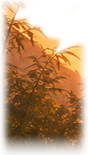
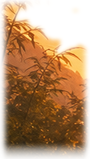
Sit cover trees in the enter frame and cut the roofs to form.
The last sit put trees on the map rim, so the camera on 暖 saw an empty field. Three large cover willows now sit behind 暖, left of the lodge, and on the creek. cut_house eats the cover floor so the roofs are not boxes.

diff --git a/godot/project.test.ts b/godot/project.test.ts
@@ -138,6 +138,10 @@ test("Valley look is one dusk illustration, not DST stickers", () => {
   assert.match(valley, /prop-cover-tree/);
   assert.match(valley, /prop-cover-lamp/);
   assert.match(valley, /prop-cover-shore/);
+  assert.match(valley, /6\.35, 5\.15, 176, 236/);
+  assert.match(valley, /12\.15, 3\.55, 196, 252/);
+  assert.match(valley, /10\.55, 7\.20, 168, 228/);
+  assert.match(valley, /8\.15, 7\.35, 52, 68/);
   assert.doesNotMatch(valley, /prop-mine\.png/);
   assert.doesNotMatch(valley, /prop-stall\.png/);
   assert.doesNotMatch(valley, /prop-anvil\.png/);
@@ -165,6 +169,7 @@ test("Valley look is one dusk illustration, not DST stickers", () => {
   assert.match(unify, /918, 298, 972, 372/);
   assert.match(unify, /1008, 548, 1148, 668/);
   assert.match(unify, /fade_bank/);
+  assert.match(unify, /cut_house/);
   assert.doesNotMatch(unify, /Wilson|Don't Starve|Dont Starve/i);
   assert.ok(existsSync("godot/assets/art/prop-cover-tree.png"));
   assert.ok(existsSync("godot/assets/art/prop-cover-tree-b.png"));

diff --git a/tools/unify_dusk.py b/tools/unify_dusk.py
@@ -137,14 +137,35 @@ def trim_alpha(im: Image.Image, t: int = 10) -> Image.Image:
     return im.crop((int(xs.min()), int(ys.min()), int(xs.max()) + 1, int(ys.max()) + 1))
 
 
+def cut_house(im: Image.Image, tol: float = 38.0, sit: float = 0.36) -> Image.Image:
+    # Cut to the roof. Eat the cover floor so the play sheet is not a box.
+    look = _look()
+    cut = eat_corners(im.convert("RGBA"), tol)
+    buf = np.asarray(cut, dtype=np.float32)
+    h, _w = buf.shape[:2]
+    rgb = buf[:, :, :3]
+    a = buf[:, :, 3]
+    lum = rgb @ np.array([0.30, 0.50, 0.20], dtype=np.float32)
+    r = rgb[:, :, 0]
+    g = rgb[:, :, 1]
+    glow = (r > 150.0) & (r > g + 16.0) & (lum > 88.0)
+    yy = np.arange(h, dtype=np.float32)[:, None]
+    floor = (yy > h * 0.58) & (a > 6.0) & (~glow) & (lum < 100.0)
+    t = np.clip((h - yy) / max(12.0, h * 0.42), 0.0, 1.0)
+    buf[:, :, 3] = np.where(floor, a * (t * t), a)
+    cut = Image.fromarray(np.clip(buf, 0, 255).astype(np.uint8), "RGBA")
+    cut = look.soften_sit(cut, sit)
+    cut = fade_edges(cut, 0.08)
+    return trim_alpha(cut)
+
+
 def sit_cover_houses() -> None:
     # Read the cover. Does not touch the cover.
     cover = Image.open(ART / "cover-valley.png").convert("RGBA")
-    look = _look()
-    hut = look.soften_sit(eat_corners(cover.crop(HUT_BOX)), 0.28)
+    hut = cut_house(cover.crop(HUT_BOX), 36.0, 0.36)
     hut.save(ART / "prop-hut.png")
     print("wrote prop-hut.png from cover hut", hut.size)
-    lodge = look.soften_sit(eat_corners(cover.crop(LODGE_BOX)), 0.26)
+    lodge = cut_house(cover.crop(LODGE_BOX), 38.0, 0.38)
     lodge.save(ART / "prop-lodge.png")
     print("wrote prop-lodge.png from cover lodge", lodge.size)
     raw = (ART / "prop-lodge.png").read_bytes()
@@ -156,7 +177,7 @@ def sit_cover_grove() -> None:
     # Trees, lamp, shore from the same cover. Does not touch the cover.
     cover = Image.open(ART / "cover-valley.png").convert("RGBA")
     look = _look()
-    willow = trim_alpha(look.soften_sit(fade_edges(eat_sky(cover.crop(WILLOW_BOX), 16.0), 0.12), 0.16))
+    willow = trim_alpha(look.soften_sit(fade_edges(eat_sky(cover.crop(WILLOW_BOX), 16.0), 0.08), 0.12))
     willow.save(ART / "prop-cover-tree.png")
     print("wrote prop-cover-tree.png from cover willow", willow.size)
     # Ridge canopy is gold-lit. Do not flood-eat the sky or the crown goes with it.

diff --git a/godot/docs/ART.md b/godot/docs/ART.md
@@ -9,7 +9,7 @@
 - **主光：** 西 / 左。太阳在封面左脊。高光在物的左侧，脚影偏东 / 右。`Look.SHADOW_EAST`。不要顶光、不要第二轮太阳。
 - **描边：** 无硬墨线。软边插画。形靠色和光，不靠黑圈。禁止饥荒笔触、禁止像素描边。
 - **脚影：** 同一套软椭圆接地影，偏东。人、屋同一规则。不要每件道具自带另一种影子。
-- **禁止混包：** 人和屋和地来自封面同一支笔、同一套比例。玩区屋只用 `prop-hut` / `prop-lodge`（封面那两座，经 `unify_dusk` 从封面裁下）。谷里的树、灯、岸也只从同一张封面裁：`prop-cover-tree` / `prop-cover-lamp` / `prop-cover-shore`。不要 Wanderer 客栈、不要 `prop-pine`、不要 `prop-tree-gold`、不要红顶像素屋、不要另一套小人、不要像素球树。
+- **禁止混包：** 人和屋和地来自封面同一支笔、同一套比例。玩区屋只用 `prop-hut` / `prop-lodge`（封面那两座，经 `unify_dusk` 的 `cut_house` 从封面裁到形，脚吃进地，不要方盒子）。谷里的树、灯、岸也只从同一张封面裁：`prop-cover-tree` / `prop-cover-lamp` / `prop-cover-shore`。进谷镜头里要看得见树。不要 Wanderer 客栈、不要 `prop-pine`、不要 `prop-tree-gold`、不要红顶像素屋、不要另一套小人、不要像素球树。
 
 ## 这一套是什么
 
